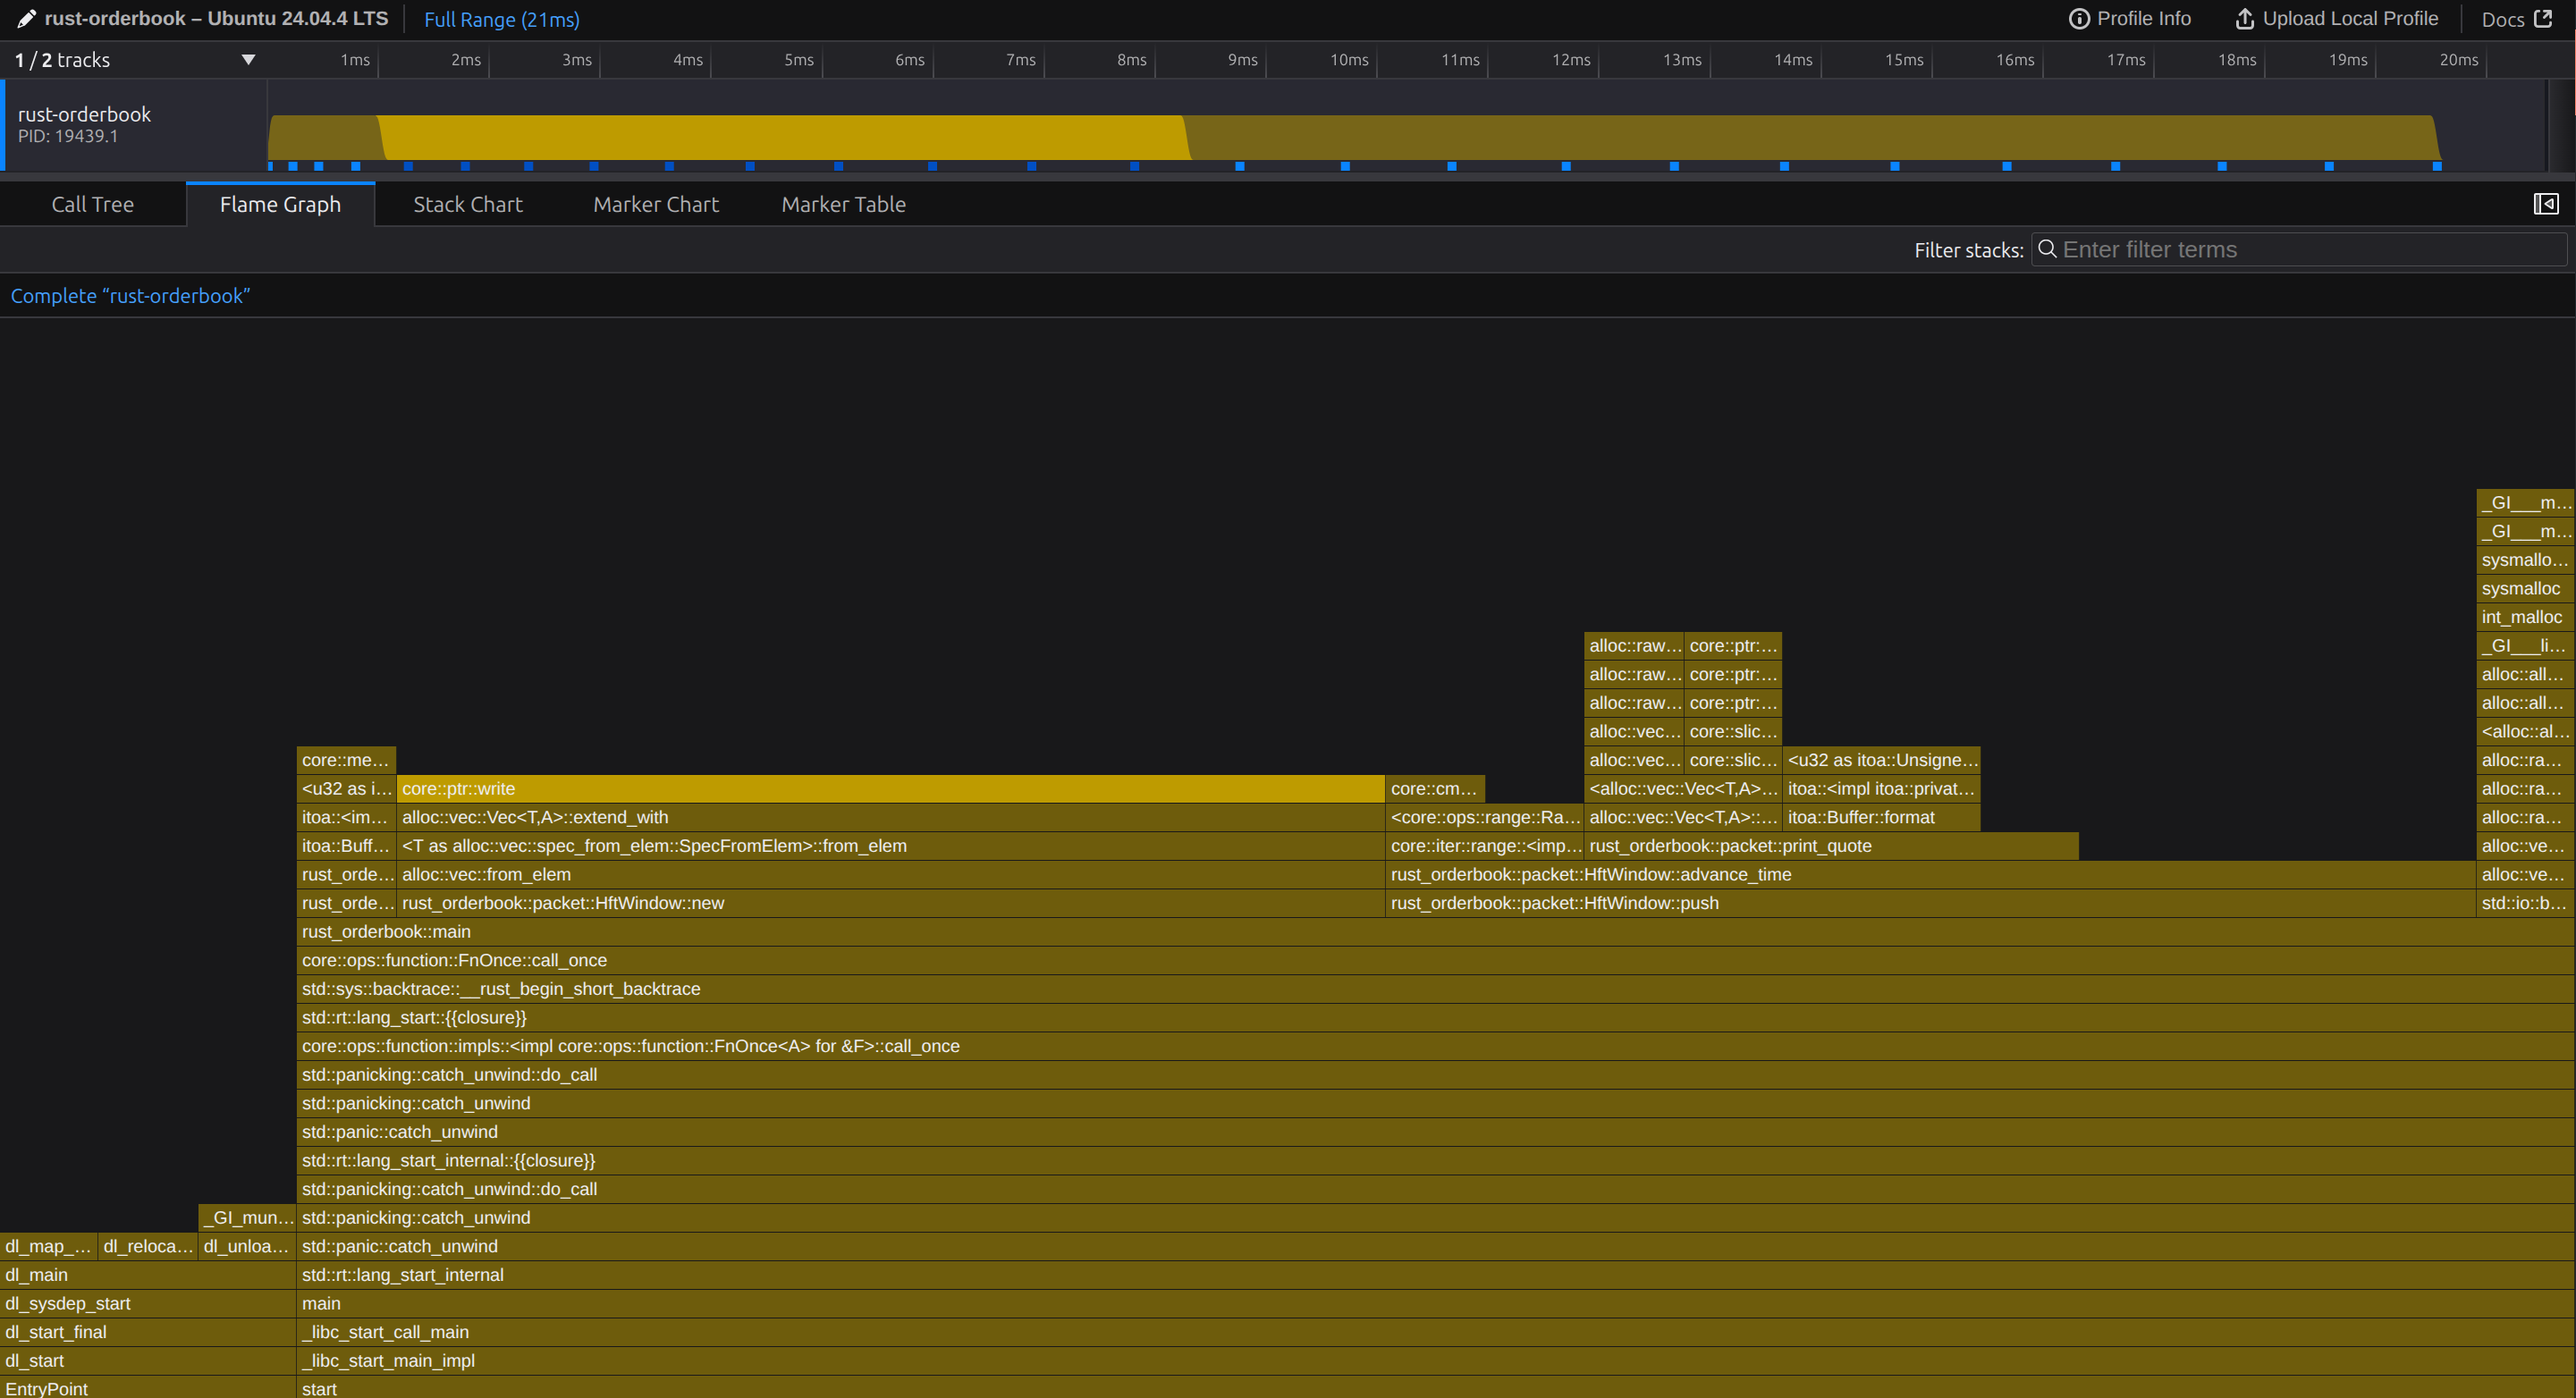
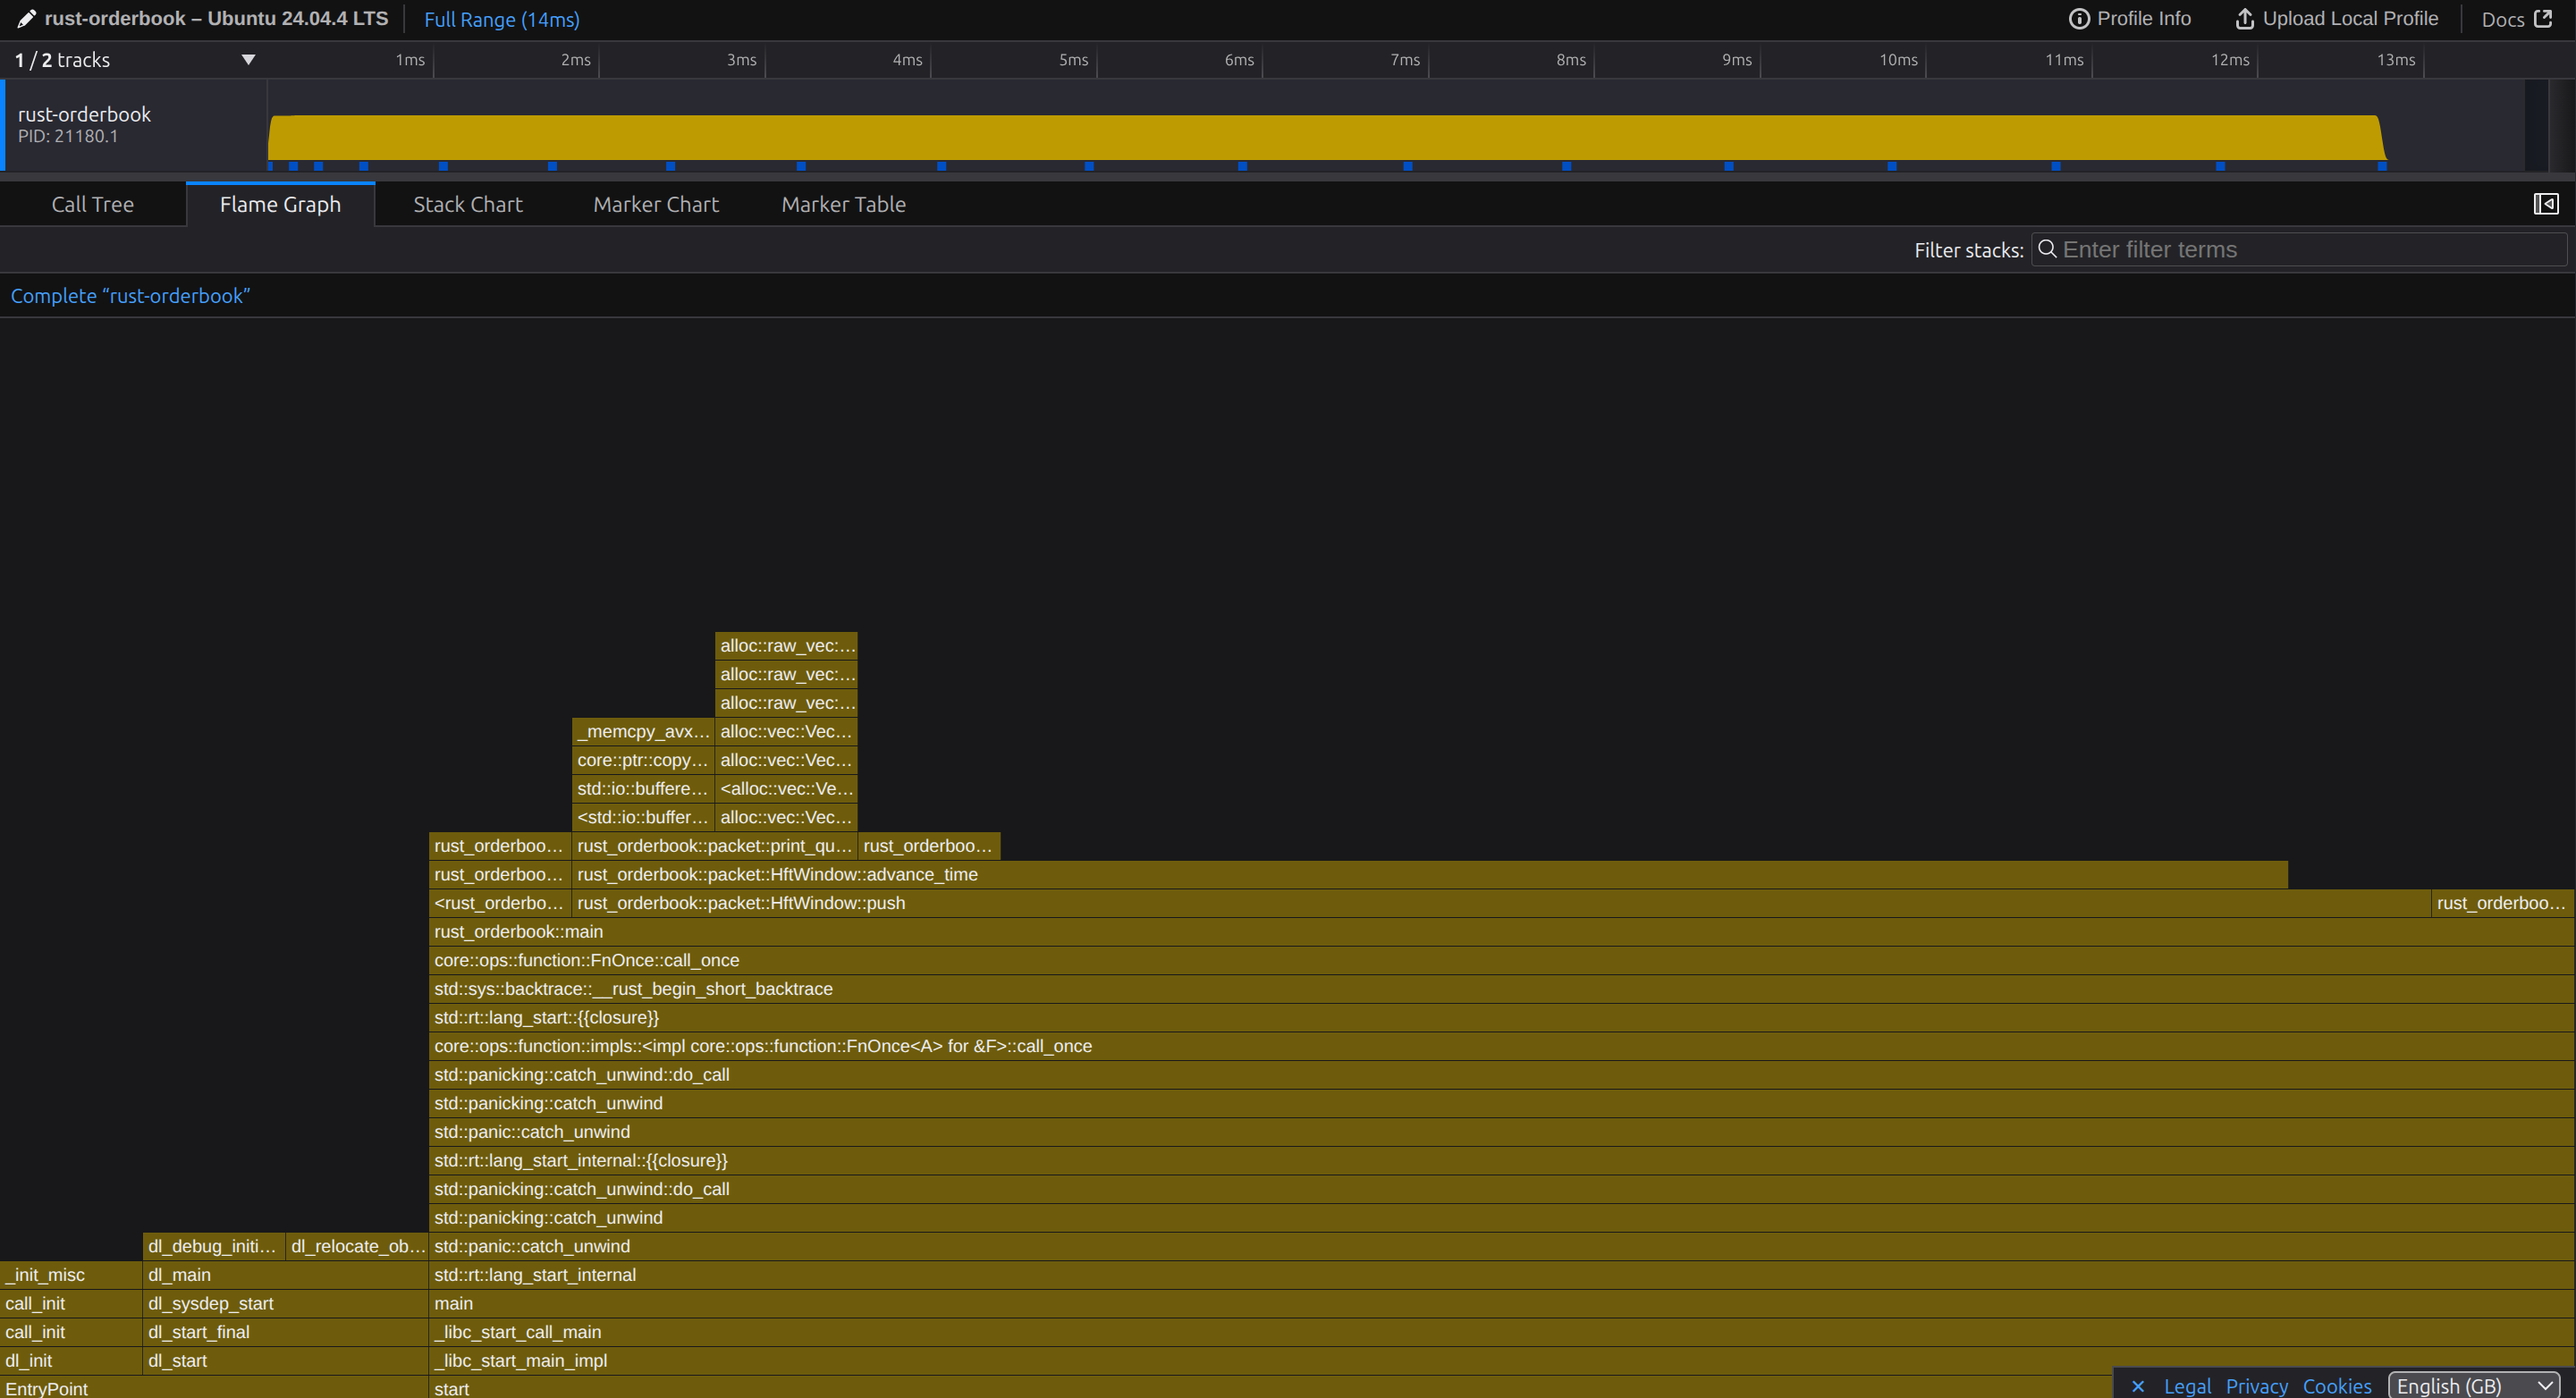
fixed size vec array

diff --git a/src/packet.rs b/src/packet.rs
@@ -19,17 +19,20 @@ const MASK: u64 = 511;
 const WINDOW_LIMIT_CS: u64 = 300; // 3 seconds
 
 pub struct HftWindow<'a> {
-    buckets: Box<[(QuotePacketView<'a>, u64, u64)]>, // Pre-allocated Array on heap via Box.
+    buckets: Vec<(QuotePacketView<'a>, u64, u64)>,
     counts: [usize; NUM_BUCKETS],
     max_time_seen: u64,
 }
 
 impl<'a> HftWindow<'a> {
     pub fn new() -> Self {
-        let qp = QuotePacketView::new_unchecked(&[]).unwrap();
-        let entry = (qp, 0, 0);
         
-        let pool = vec![entry; TOTAL_CAPACITY].into_boxed_slice();
+        let mut pool = Vec::with_capacity(TOTAL_CAPACITY);
+
+        // by using unsafe we tell the OS to not zeroing this
+        unsafe {
+            pool.set_len(TOTAL_CAPACITY);
+        }
 
         Self {
             buckets: pool,
@@ -61,7 +64,10 @@ impl<'a> HftWindow<'a> {
         if curr_count < MAX_NO_PACKETS {
             // (index * MAX_NO_PACKETS) + curr_count
             let flat_index = (index * MAX_NO_PACKETS) + curr_count;
-            self.buckets[flat_index] = (packet, pkt_time, accept_time);
+            
+            unsafe {
+                *self.buckets.get_unchecked_mut(flat_index) = (packet, pkt_time, accept_time);
+            }
             self.counts[index] += 1;
         }
     }
@@ -81,7 +87,9 @@ impl<'a> HftWindow<'a> {
             let base_idx = MAX_NO_PACKETS * idx;
 
             for i in 0..count {
-                let (pkt, p_time, a_time) = &self.buckets[base_idx + i];
+                let (pkt, p_time, a_time) = unsafe {
+                    self.buckets.get_unchecked(base_idx + i)
+                };
                 let _ = print_quote(out, pkt, *p_time, *a_time, scratchpad);
             }
             
@@ -105,7 +113,9 @@ impl<'a> HftWindow<'a> {
             let base_idx = MAX_NO_PACKETS * idx;
 
             for i in 0..count {
-                let (pkt, p_time, a_time)  = &self.buckets[base_idx + i];
+                let (pkt, p_time, a_time)  = unsafe {
+                    self.buckets.get_unchecked(base_idx + i)
+                };
                 let _ = print_quote(out, pkt, *p_time, *a_time, scratchpad);
             }
             self.counts[idx]= 0;

diff --git a/README.md b/README.md
@@ -34,9 +34,9 @@ With 3 second time bound check
 ```
 time target/release/rust-orderbook --file ./data/mdf-kospi200.20110216-0.pcap -r > /dev/null
 
-real    0m0.037s
-user    0m0.024s
-sys     0m0.012s
+real    0m0.026s
+user    0m0.022s
+sys     0m0.005s
 ```
 
 Without any time bound checks 
@@ -44,9 +44,9 @@ Without any time bound checks
 ```
 time target/release/rust-orderbook --file ./data/mdf-kospi200.20110216-0.pcap > /dev/null
 
-real    0m0.026s
-user    0m0.014s
-sys     0m0.012s
+real    0m0.013s
+user    0m0.011s
+sys     0m0.003s
 ```
 
 ### Samply
